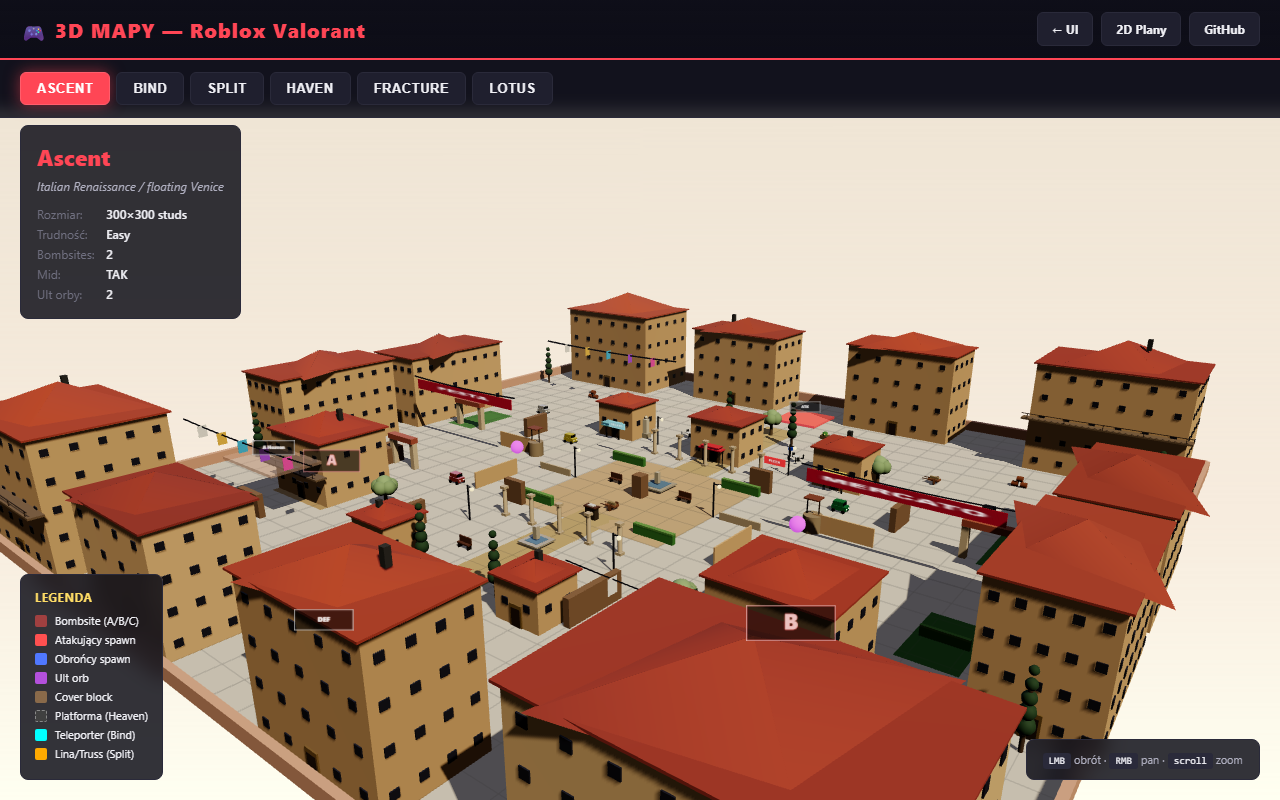
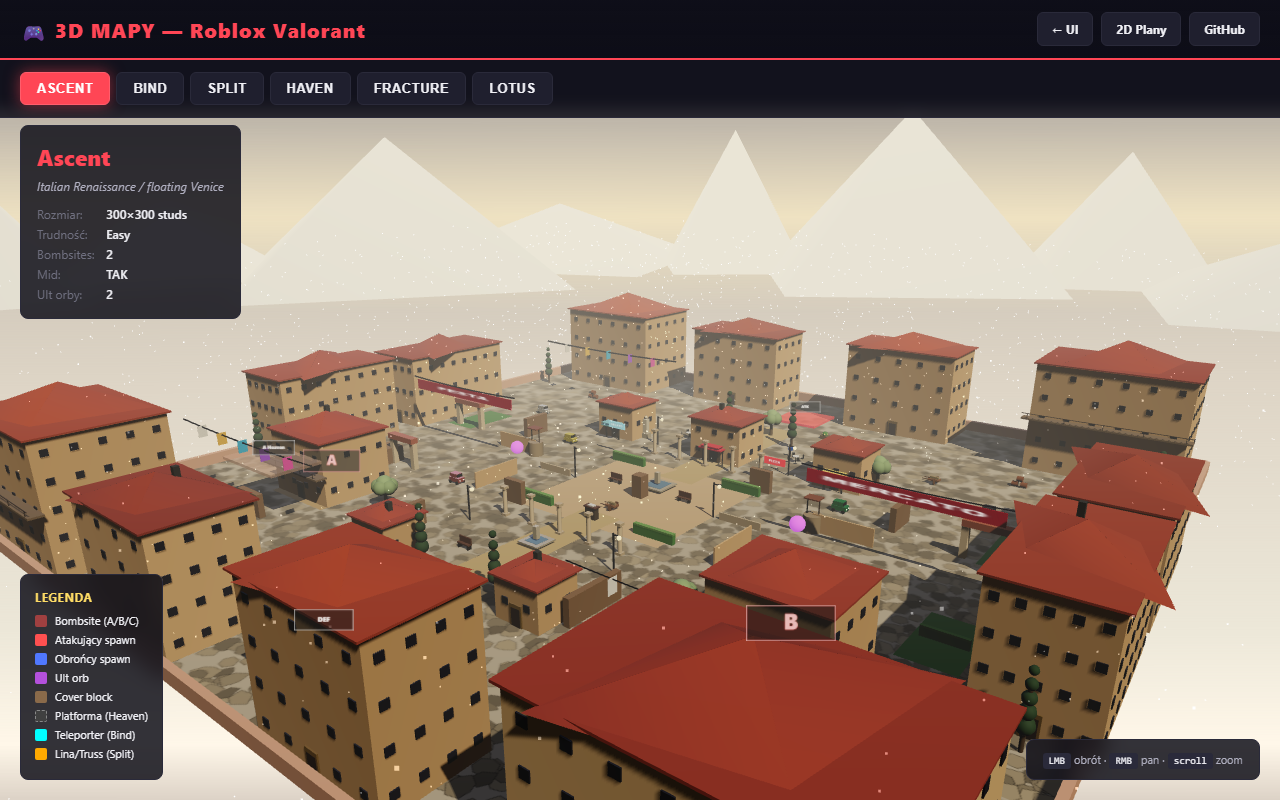
Cinematic maturity pass — textured floors + mountain backdrop + atmospheric haze
User feedback: "wygloda jak plac zabaw" (still looks like playground).
Fixed by removing toy indicators and adding environmental context.

REMOVED:
- GridHelper (was the #1 playground signal — visible grid lines on floor)

ADDED:
- makeFloorTexture(): per-map procedural floor texture via canvas, 512x512:
  * Ascent — irregular cobblestone polygons (5-7 sided shapes, dark grout)
  * Bind — sand grit (6000 pixels) + wind ripples (sinusoidal lines)
  * Split — dark asphalt + 3000 pebbles + 6 crack zigzag lines
  * Haven — 80×80 stone slabs with darker mortar grid
  * Fracture — cracked concrete + dirt patches + 10 cracks + sand specks
  * Lotus — marble veins (20 curved dark + 8 lighter at alpha 0.15) + 128×128 tile grout
  Texture repeats 8x across map for proper density.
- Mountain silhouette backdrop: 24 cone-mountains at radius 700-900 around map,
  height 60-180, two color shades (darker + slightly lighter alternating), using
  MeshBasicMaterial so fog blends them into horizon
- Atmospheric dust motes: 2500 point sprites floating 0-80 studs height, additive
  blending, sky-color tinted. Sells depth and air.
- Sky gradient upgraded: 8×512 canvas with 5 color stops (dark zenith → sky →
  mid → bright horizon → soft ground), plus sun glow radial in upper-right
- FogExp2 (exponential, 0.0018 density) instead of linear Fog — more
  atmospheric, no hard cutoff
- toneMappingExposure 0.95 (was 1.15) — moodier, less plastic
[…]

diff --git a/presentation/maps3d.html b/presentation/maps3d.html
@@ -1086,7 +1086,7 @@ renderer.shadowMap.enabled = true;
 renderer.shadowMap.type = THREE.PCFSoftShadowMap;
 // Tone mapping for cinematic look
 renderer.toneMapping = THREE.ACESFilmicToneMapping;
-renderer.toneMappingExposure = 1.15;
+renderer.toneMappingExposure = 0.95;
 renderer.outputColorSpace = THREE.SRGBColorSpace;
 container.appendChild(renderer.domElement);
 
@@ -1564,6 +1564,184 @@ PROP_BUILDERS.banyan = (p) => {
   }
   return g;
 };
+
+// ===== PROCEDURAL FLOOR TEXTURE (per-map pattern via canvas) =====
+function makeFloorTexture(mapName, baseColor) {
+  const c = document.createElement('canvas');
+  c.width = 512; c.height = 512;
+  const ctx = c.getContext('2d');
+  const hex = '#' + baseColor.getHexString();
+  ctx.fillStyle = hex;
+  ctx.fillRect(0, 0, 512, 512);
+
+  const darker = (factor) => {
+    const r = Math.floor(baseColor.r * 255 * factor);
+    const g = Math.floor(baseColor.g * 255 * factor);
+    const b = Math.floor(baseColor.b * 255 * factor);
+    return `rgb(${r}, ${g}, ${b})`;
+  };
+
+  if (mapName === 'Ascent') {
+    // Cobblestone — irregular polygons
+    for (let i = 0; i < 80; i++) {
+      ctx.beginPath();
+      const cx = Math.random() * 512;
+      const cy = Math.random() * 512;
+      const r = 25 + Math.random() * 25;
+      const sides = 5 + Math.floor(Math.random() * 3);
+      for (let s = 0; s < sides; s++) {
+        const a = (s / sides) * Math.PI * 2;
+        const rr = r * (0.7 + Math.random() * 0.5);
+        const x = cx + Math.cos(a) * rr;
+        const y = cy + Math.sin(a) * rr;
+        if (s === 0) ctx.moveTo(x, y); else ctx.lineTo(x, y);
+      }
+      ctx.closePath();
+      ctx.fillStyle = darker(0.75 + Math.random() * 0.4);
+      ctx.fill();
+      ctx.strokeStyle = darker(0.4);
+      ctx.lineWidth = 2;
+      ctx.stroke();
+    }
+  } else if (mapName === 'Bind') {
+    // Sand — gritty noise + dune ripples
+    for (let i = 0; i < 6000; i++) {
+      ctx.fillStyle = darker(0.8 + Math.random() * 0.4);
+      ctx.fillRect(Math.random() * 512, Math.random() * 512, 1.5, 1.5);
+    }
+    // Wind ripples (horizontal lines)
+    ctx.strokeStyle = darker(0.85);
+    ctx.lineWidth = 1;
+    for (let y = 0; y < 512; y += 12) {
+      ctx.beginPath();
+      ctx.moveTo(0, y + Math.sin(y * 0.05) * 3);
+      for (let x = 0; x < 512; x += 8) {
+        ctx.lineTo(x, y + Math.sin(x * 0.03 + y * 0.05) * 4);
+      }
+      ctx.stroke();
+    }
+  } else if (mapName === 'Split') {
+    // Asphalt — dark base with cracks
+    ctx.fillStyle = darker(0.5);
+    ctx.fillRect(0, 0, 512, 512);
+    // Random asphalt pebbles
+    for (let i = 0; i < 3000; i++) {
+      ctx.fillStyle = darker(0.55 + Math.random() * 0.25);
+      ctx.fillRect(Math.random() * 512, Math.random() * 512, 2, 2);
+    }
+    // Crack lines (zigzag)
+    ctx.strokeStyle = darker(0.3);
+    ctx.lineWidth = 1.5;
+    for (let i = 0; i < 6; i++) {
+      ctx.beginPath();
+      let x = Math.random() * 512, y = Math.random() * 512;
+      ctx.moveTo(x, y);
+      for (let s = 0; s < 30; s++) {
+        x += (Math.random() - 0.5) * 30;
+        y += (Math.random() - 0.5) * 30;
+        ctx.lineTo(x, y);
+      }
+      ctx.stroke();
+    }
+  } else if (mapName === 'Haven') {
+    // Large stone slabs
+    const tileSize = 80;
+    for (let x = 0; x < 512; x += tileSize) {
+      for (let y = 0; y < 512; y += tileSize) {
+        ctx.fillStyle = darker(0.75 + Math.random() * 0.4);
+        ctx.fillRect(x, y, tileSize - 2, tileSize - 2);
+      }
+    }
+    // Mortar lines (darker)
+    ctx.strokeStyle = darker(0.4);
+    ctx.lineWidth = 2;
+    for (let x = 0; x <= 512; x += tileSize) {
+      ctx.beginPath(); ctx.moveTo(x, 0); ctx.lineTo(x, 512); ctx.stroke();
+    }
+    for (let y = 0; y <= 512; y += tileSize) {
+      ctx.beginPath(); ctx.moveTo(0, y); ctx.lineTo(512, y); ctx.stroke();
+    }
+  } else if (mapName === 'Fracture') {
+    // Cracked desert concrete with dirt
+    ctx.fillStyle = darker(0.7);
+    ctx.fillRect(0, 0, 512, 512);
+    // Dirt patches
+    for (let i = 0; i < 30; i++) {
+      ctx.beginPath();
+      const cx = Math.random() * 512;
+      const cy = Math.random() * 512;
+      ctx.arc(cx, cy, 15 + Math.random() * 40, 0, Math.PI * 2);
+      ctx.fillStyle = darker(0.55 + Math.random() * 0.25);
+      ctx.fill();
+    }
+    // Cracks
+    ctx.strokeStyle = darker(0.35);
+    ctx.lineWidth = 2;
+    for (let i = 0; i < 10; i++) {
+      ctx.beginPath();
+      let x = Math.random() * 512, y = Math.random() * 512;
+      ctx.moveTo(x, y);
+      for (let s = 0; s < 20; s++) {
+        x += (Math.random() - 0.5) * 40;
+        y += (Math.random() - 0.5) * 40;
+        ctx.lineTo(x, y);
+      }
+      ctx.stroke();
+    }
+    // Sand patches
+    for (let i = 0; i < 1500; i++) {
+      ctx.fillStyle = `rgba(220, 180, 130, ${Math.random() * 0.3})`;
+      ctx.fillRect(Math.random() * 512, Math.random() * 512, 2, 2);
+    }
+  } else if (mapName === 'Lotus') {
+    // Marble — veined pattern
+    ctx.fillStyle = hex;
+    ctx.fillRect(0, 0, 512, 512);
+    // Marble veins (thin curved lines)
+    ctx.strokeStyle = darker(0.7);
+    ctx.lineWidth = 1;
+    for (let i = 0; i < 20; i++) {
+      ctx.beginPath();
+      let x = Math.random() * 512, y = Math.random() * 512;
+      ctx.moveTo(x, y);
+      for (let s = 0; s < 40; s++) {
+        x += (Math.random() - 0.5) * 25;
+        y += (Math.random() - 0.5) * 25;
+        ctx.lineTo(x, y);
+      }
+      ctx.stroke();
+    }
+    // Highlight veins (lighter)
+    ctx.strokeStyle = '#ffffff';
+    ctx.globalAlpha = 0.15;
+    ctx.lineWidth = 2;
+    for (let i = 0; i < 8; i++) {
+      ctx.beginPath();
+      let x = Math.random() * 512, y = Math.random() * 512;
+      ctx.moveTo(x, y);
+      for (let s = 0; s < 30; s++) {
+        x += (Math.random() - 0.5) * 30;
+        y += (Math.random() - 0.5) * 30;
+        ctx.lineTo(x, y);
+      }
+      ctx.stroke();
+    }
+    ctx.globalAlpha = 1.0;
+    // Tile grout (larger squares)
+    ctx.strokeStyle = darker(0.85);
+    ctx.lineWidth = 1.5;
+    for (let x = 0; x <= 512; x += 128) {
+      ctx.beginPath(); ctx.moveTo(x, 0); ctx.lineTo(x, 512); ctx.stroke();
+    }
+    for (let y = 0; y <= 512; y += 128) {
+      ctx.beginPath(); ctx.moveTo(0, y); ctx.lineTo(512, y); ctx.stroke();
+    }
+  }
+
+  const tex = new THREE.CanvasTexture(c);
+  tex.colorSpace = THREE.SRGBColorSpace;
+  return tex;
+}
 
 // ===== BUILDING BUILDER (perimeter structures with windows + roof) =====
 function buildBuilding(b) {
@@ -2634,32 +2812,65 @@ function buildMap(name) {
 
   const map = MAPS[name];
   const group = new THREE.Group();
-  // Gradient skybox (large sphere with vertical color blend)
-  const skyTopColor = rgbColor(map.SkyColor);
-  const skyBotColor = new THREE.Color(skyTopColor.r * 0.5 + 0.5, skyTopColor.g * 0.5 + 0.45, skyTopColor.b * 0.5 + 0.4);
+  // Gradient skybox with sun glow + horizon haze
+  const skyTopColor = rgbColor(map.SkyColor).multiplyScalar(0.85);  // slightly darker for mood
+  const skyMidColor = new THREE.Color(skyTopColor.r * 0.6 + 0.4, skyTopColor.g * 0.6 + 0.4, skyTopColor.b * 0.6 + 0.35);
+  const skyBotColor = new THREE.Color(skyTopColor.r * 0.4 + 0.5, skyTopColor.g * 0.4 + 0.45, skyTopColor.b * 0.4 + 0.4);
   const skyCanvas = document.createElement('canvas');
-  skyCanvas.width = 2; skyCanvas.height = 256;
+  skyCanvas.width = 8; skyCanvas.height = 512;
   const skyCtx = skyCanvas.getContext('2d');
-  const skyGrad = skyCtx.createLinearGradient(0, 0, 0, 256);
-  skyGrad.addColorStop(0, '#' + skyTopColor.getHexString());
-  skyGrad.addColorStop(0.6, '#' + skyBotColor.getHexString());
-  skyGrad.addColorStop(1, '#' + skyBotColor.clone().multiplyScalar(1.2).getHexString());
+  const skyGrad = skyCtx.createLinearGradient(0, 0, 0, 512);
+  skyGrad.addColorStop(0, '#' + skyTopColor.clone().multiplyScalar(0.7).getHexString());  // dark zenith
+  skyGrad.addColorStop(0.4, '#' + skyTopColor.getHexString());
+  skyGrad.addColorStop(0.75, '#' + skyMidColor.getHexString());
+  skyGrad.addColorStop(0.92, '#' + skyBotColor.clone().multiplyScalar(1.3).getHexString());  // bright horizon
+  skyGrad.addColorStop(1, '#' + skyBotColor.clone().multiplyScalar(0.9).getHexString());
   skyCtx.fillStyle = skyGrad;
-  skyCtx.fillRect(0, 0, 2, 256);
+  skyCtx.fillRect(0, 0, 8, 512);
+  // Add sun glow blob on right side
+  const sunGlow = skyCtx.createRadialGradient(6, 80, 0, 6, 80, 70);
+  sunGlow.addColorStop(0, 'rgba(255, 240, 200, 0.7)');
+  sunGlow.addColorStop(1, 'rgba(255, 240, 200, 0)');
+  skyCtx.fillStyle = sunGlow;
+  skyCtx.fillRect(0, 0, 8, 512);
   const skyTex = new THREE.CanvasTexture(skyCanvas);
   skyTex.colorSpace = THREE.SRGBColorSpace;
   scene.background = skyTex;
-  scene.fog = new THREE.Fog(skyBotColor, 300, 1400);
+  scene.fog = new THREE.FogExp2(skyMidColor.getHex(), 0.0018);  // exponential fog (more atmospheric)
   // Update sun color tint based on map theme
   sun.color.copy(skyTopColor).multiplyScalar(1.0).lerp(new THREE.Color(0xffeec8), 0.5);
-  ambient.color.copy(skyTopColor).multiplyScalar(0.6);
-  ambient.groundColor.set(0x504030);
+  ambient.color.copy(skyTopColor).multiplyScalar(0.5);
+  ambient.groundColor.set(0x3c3025);
+
+  // === MOUNTAIN SILHOUETTES (horizon backdrop) ===
+  const mountainColor = skyMidColor.clone().multiplyScalar(0.55);
+  const mountainColor2 = skyMidColor.clone().multiplyScalar(0.7);
+  // Far mountains (darker, behind)
+  for (let i = 0; i < 24; i++) {
+    const angle = (i / 24) * Math.PI * 2;
+    const dist = 700 + Math.random() * 200;
+    const x = Math.cos(angle) * dist;
+    const z = Math.sin(angle) * dist;
+    const h = 60 + Math.random() * 120;
+    const w = 100 + Math.random() * 150;
+    const m = new THREE.Mesh(
+      new THREE.ConeGeometry(w, h, 4),
+      new THREE.MeshBasicMaterial({ color: i % 2 === 0 ? mountainColor.getHex() : mountainColor2.getHex(), fog: true })
+    );
+    m.position.set(x, h / 2 - 5, z);
+    m.rotation.y = Math.random() * Math.PI;
+    group.add(m);
+  }
 
   // FLOOR (slightly larger than dimensions)
   const floorGeo = new THREE.PlaneGeometry(map.Dimensions.X, map.Dimensions.Z);
-  // Floor color from theme override (matches Roblox material rendering)
+  // Floor with procedural texture (cobblestone/asphalt/marble pattern via canvas)
   const themeColor = THEMES[name] && THEMES[name].floorColor ? rgbColor(THEMES[name].floorColor) : rgbColor(map.ColorPalette.Primary);
+  const floorTex = makeFloorTexture(name, themeColor);
+  floorTex.wrapS = floorTex.wrapT = THREE.RepeatWrapping;
+  floorTex.repeat.set(8, 8);
   const floorMat = new THREE.MeshStandardMaterial({
+    map: floorTex,
     color: themeColor,
     roughness: (THEMES[name] && THEMES[name].floorRoughness) ?? 0.85,
     metalness: (THEMES[name] && THEMES[name].floorMetalness) ?? 0.05,
@@ -2668,6 +2879,28 @@ function buildMap(name) {
   floor.rotation.x = -Math.PI / 2;
   floor.receiveShadow = true;
   group.add(floor);
+
+  // ATMOSPHERIC DUST MOTES (haze in air, sells the depth)
+  const motesGeo = new THREE.BufferGeometry();
+  const motesCount = 2500;
+  const motePositions = new Float32Array(motesCount * 3);
+  for (let i = 0; i < motesCount; i++) {
+    motePositions[i * 3] = (Math.random() - 0.5) * map.Dimensions.X * 1.4;
+    motePositions[i * 3 + 1] = Math.random() * 80;
+    motePositions[i * 3 + 2] = (Math.random() - 0.5) * map.Dimensions.Z * 1.4;
+  }
+  motesGeo.setAttribute('position', new THREE.BufferAttribute(motePositions, 3));
+  const motesMat = new THREE.PointsMaterial({
+    color: skyTopColor.clone().multiplyScalar(2).getHex(),
+    size: 0.6,
+    transparent: true,
+    opacity: 0.4,
+    blending: THREE.AdditiveBlending,
+    depthWrite: false,
+    sizeAttenuation: true,
+  });
+  const motes = new THREE.Points(motesGeo, motesMat);
+  group.add(motes);
 
   // FLOOR PATCHES (theme color variation — laid before grid so grid sits on top)
   const theme = THEMES[name];
@@ -2678,12 +2911,7 @@ function buildMap(name) {
     });
   }
 
-  // GRID overlay (very subtle now)
-  const grid = new THREE.GridHelper(Math.max(map.Dimensions.X, map.Dimensions.Z), 30, 0x000000, 0x222222);
-  grid.material.opacity = 0.12;
-  grid.material.transparent = true;
-  grid.position.y = 0.18;
-  group.add(grid);
+  // (no grid — was toy-like)
 
   // BUILDINGS (perimeter + interior structures)
   if (theme && theme.Buildings) {
